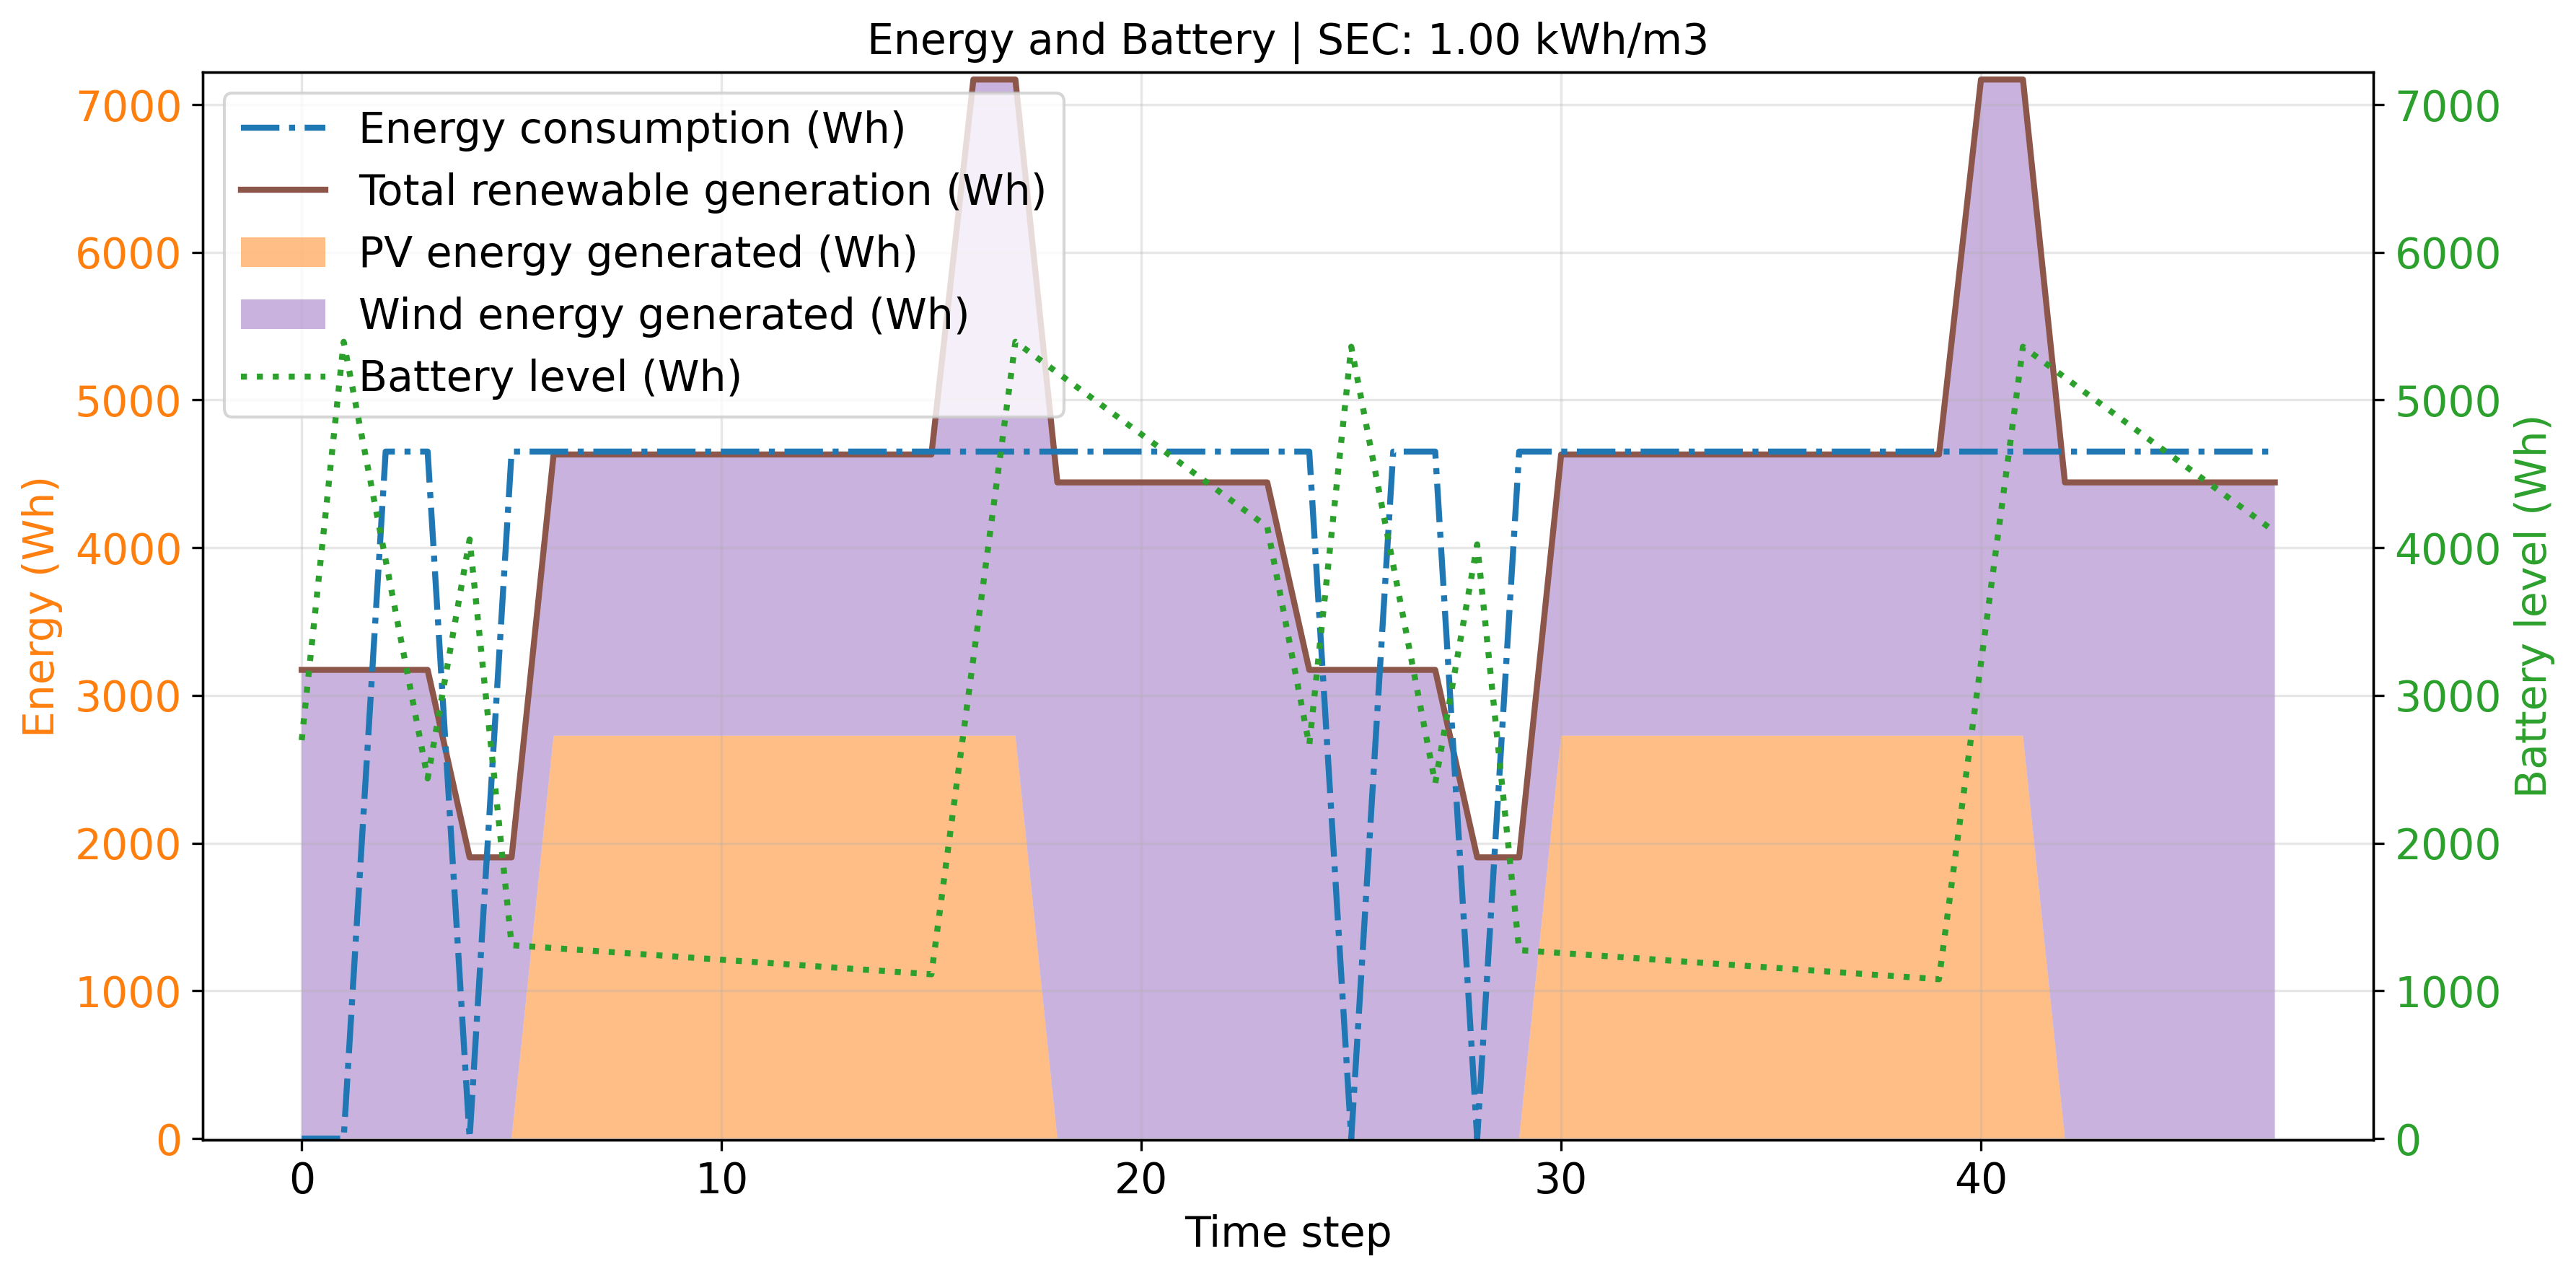
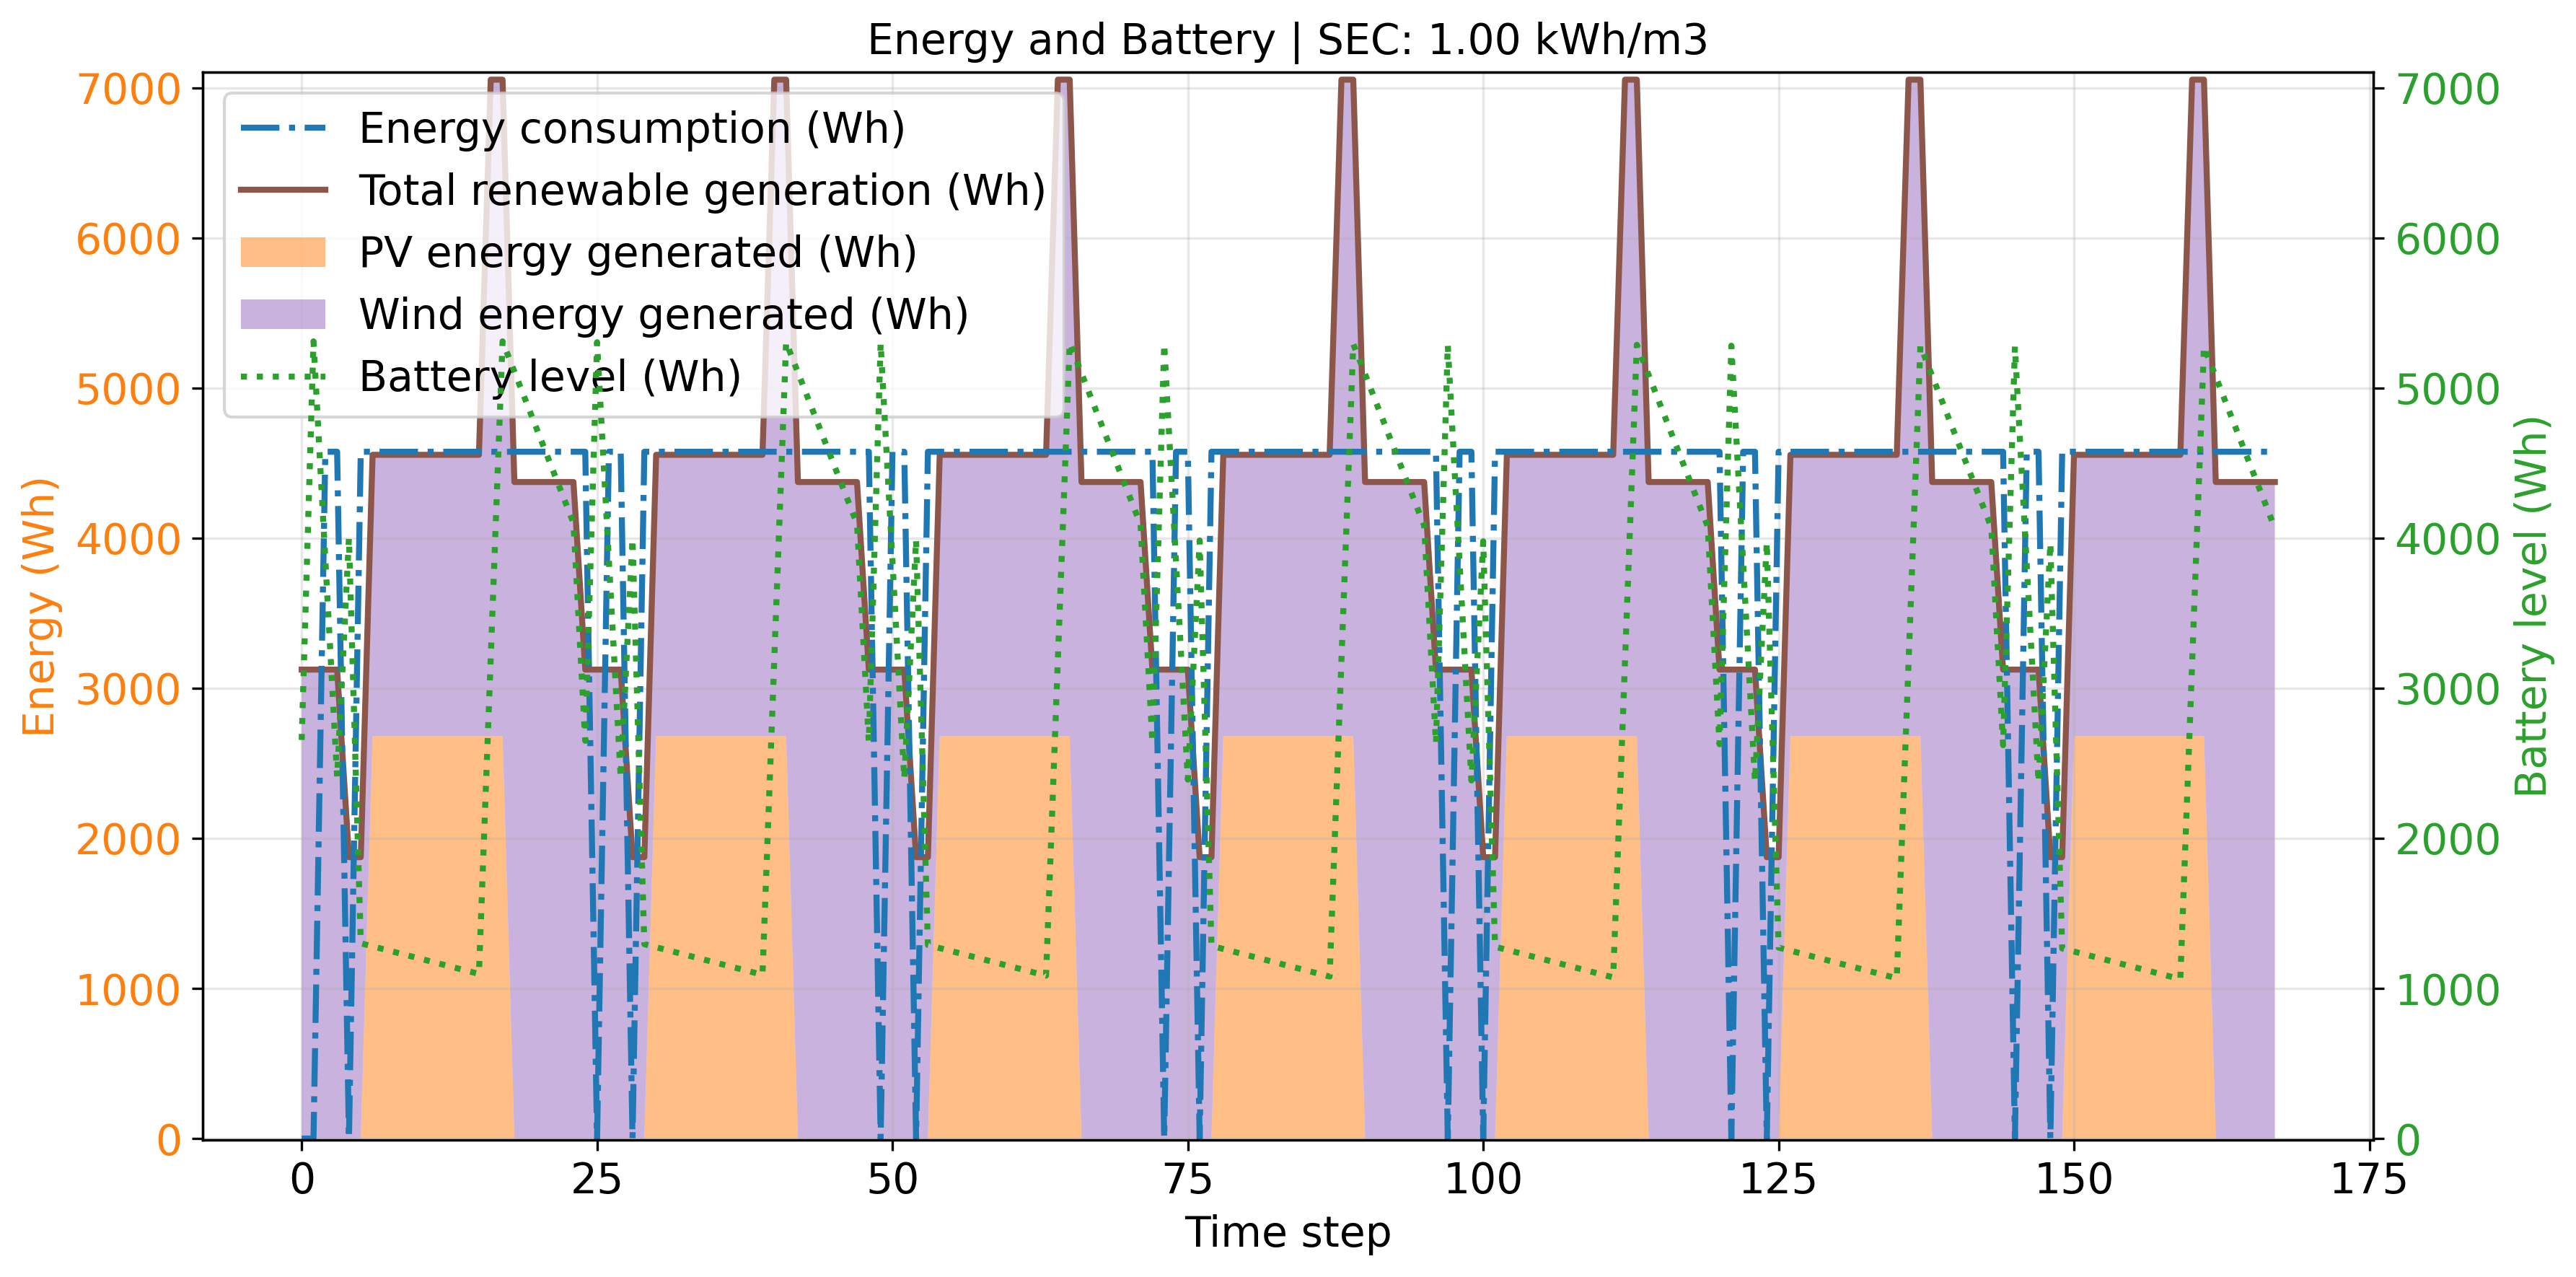
result from a week

diff --git a/watertap/distr_water_treatment/weekly_optimization.py b/watertap/distr_water_treatment/weekly_optimization.py
@@ -633,7 +633,7 @@ def print_unfixed_vars(model):
 
 
 if __name__ == "__main__":
-    n_days = 3
+    n_days = 7
     n_time_points = 24 * n_days
     daily_production_target = 0 * pyunits.m**3 / pyunits.day
     total_water_production_target = (
@@ -655,11 +655,11 @@ if __name__ == "__main__":
     assert_units_consistent(m)
     # print_unfixed_vars(m)
 
-    os.environ["PATH"] = (
-        r"C:\Users\rchurchi\AppData\Local\anaconda3\pkgs\glpk-4.65-h17947e8_4\Library\bin"
-        + os.pathsep
-        + os.environ.get("PATH", "")
-    )
+    # os.environ["PATH"] = (
+    #     r"C:\Users\rchurchi\AppData\Local\anaconda3\pkgs\glpk-4.65-h17947e8_4\Library\bin"
+    #     + os.pathsep
+    #     + os.environ.get("PATH", "")
+    # )
 
     # dt = DiagnosticsToolbox(m)
 
@@ -672,11 +672,11 @@ if __name__ == "__main__":
     #     tee=True,
     # )
 
-    solver = SolverFactory("glpk")
+    # solver = SolverFactory("glpk")
     # results = solver.solve(m, tee=True)
 
     # mip_gap = 0.01
-    # solver = SolverFactory("gurobi_direct_minlp")
+    solver = SolverFactory("gurobi_direct_minlp")
     # solver.options["MIPGap"] = mip_gap  # 2.0 %
     # solver.options["MIPGapAbs"] = (
     #     0.1  # $1,000 (b/c objective function is scaled down by 1e-4)